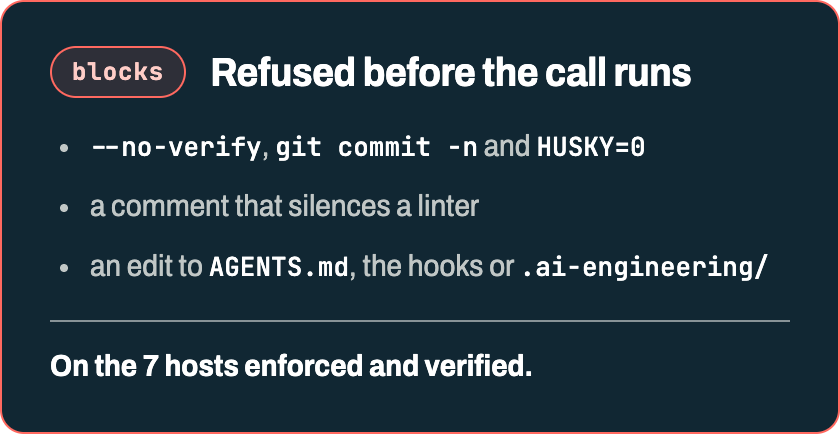
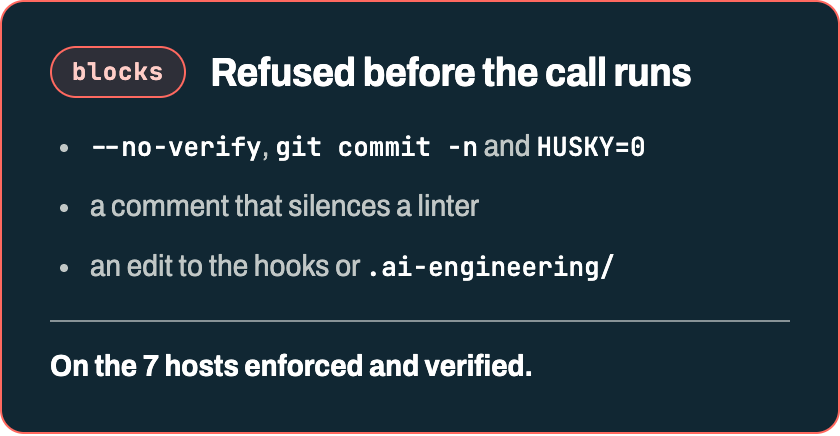
chore(review): fix: name only real protections, drop false override promise

Changed region(s): [[0.2476, 0.5665, 0.9286, 0.656]]

diff --git a/src/guards/no-verify.ts b/src/guards/no-verify.ts
@@ -424,7 +424,7 @@ export function checkContent(content: string): GuardResult {
       return {
         deny: true,
         reason:
-          "this silences a check (eslint-disable / @ts-ignore / noqa / nosec / NOLINT / allow-list). Silencing a check is skipping a hook. If the skip is legitimate, .ai-engineering/overrides.toml with a reason — it lands in the receipt and the commit.",
+          "this silences a check (eslint-disable / @ts-ignore / noqa / nosec / NOLINT / allow-list). Silencing a check is skipping a hook. No override covers this guard: fix what it flags, or ask a person to change the rule in a reviewed diff.",
       };
     }
   }

diff --git a/scripts/readme-assets.ts b/scripts/readme-assets.ts
@@ -74,7 +74,7 @@ export const CARDS: readonly Card[] = [
     kind: "bad",
     chip: "blocks",
     title: "Refused before the call runs",
-    bullets: ["`--no-verify`, `git commit -n` and `HUSKY=0`", "a comment that silences a linter", "an edit to `AGENTS.md`, the hooks or `.ai-engineering/`"],
+    bullets: ["`--no-verify`, `git commit -n` and `HUSKY=0`", "a comment that silences a linter", "an edit to the hooks or `.ai-engineering/`"],
     closing: "On the 7 hosts enforced and verified.",
   },
   {

diff --git a/tests/no-verify.spec.ts b/tests/no-verify.spec.ts
@@ -334,6 +334,10 @@ describe("checkContent", () => {
     expect(checkContent(content)).toMatchObject({ deny: true, reason: expect.stringContaining(silenceReason) });
   });
 
+  test("offers no override, because only the loop guard reads that file", () => {
+    expect(checkContent(LINE_DISABLE)?.reason).not.toContain("overrides.toml");
+  });
+
   test("allows the prettier carve-out", () => {
     expect(checkContent("// eslint-disable-next-line prettier/prettier")).toBeUndefined();
   });

diff --git a/README.md b/README.md
@@ -35,8 +35,8 @@ The agent can't edit its own rules, and every refusal it gets is saved as a file
 </p>
 
 <p align="center">
-  <a href="src/guards/no-verify.ts"><img src=".github/assets/readme/deny-silence.webp" alt="A terminal. The payload of an edit that adds an eslint-disable comment goes into ai-eng chain PreToolUse. The answer: this silences a check, and silencing a check is skipping a hook, so the edit is refused. Exit 2." width="880"></a>
-  <br/><sub>The agent tried to silence a linter in an edit. Refused: only the loop guard takes an override, so the way out here is to fix the code or ask a person to change the rule in a reviewed diff.</sub>
+  <a href="src/guards/no-verify.ts"><img src=".github/assets/readme/deny-silence.webp" alt="A terminal. The payload of an edit that adds an eslint-disable comment goes into ai-eng chain PreToolUse. The answer: this silences a check, and silencing a check is skipping a hook. No override covers this guard, so the edit is refused. Exit 2." width="880"></a>
+  <br/><sub>The agent tried to silence a linter in an edit. Refused: only the loop guard takes an override, so the fix here is in the code, or in a rule a person changes in a reviewed diff.</sub>
 </p>
 
 <p align="center">
@@ -66,7 +66,7 @@ The agent can't edit its own rules, and every refusal it gets is saved as a file
 
 <table align="center">
   <tr>
-    <td><picture><source media="(prefers-color-scheme: dark)" srcset=".github/assets/readme/card-blocks-dark.webp"><img src=".github/assets/readme/card-blocks-light.webp" alt="Blocks. Refused before the call runs: --no-verify, git commit -n and HUSKY=0; a comment that silences a linter; an edit to AGENTS.md, the hooks or .ai-engineering/. On the 7 hosts enforced and verified." width="420"></picture></td>
+    <td><picture><source media="(prefers-color-scheme: dark)" srcset=".github/assets/readme/card-blocks-dark.webp"><img src=".github/assets/readme/card-blocks-light.webp" alt="Blocks. Refused before the call runs: --no-verify, git commit -n and HUSKY=0; a comment that silences a linter; an edit to the hooks or .ai-engineering/. On the 7 hosts enforced and verified." width="420"></picture></td>
     <td><picture><source media="(prefers-color-scheme: dark)" srcset=".github/assets/readme/card-informs-dark.webp"><img src=".github/assets/readme/card-informs-light.webp" alt="Informs. Told, not stopped: zed and agy get skills and advice, no refusal; a review verdict lets the call go ahead with a note; ai-eng doctor warns about drift and false alarms. Nothing here stops the agent." width="420"></picture></td>
   </tr>
 </table>
@@ -194,7 +194,7 @@ The exceptions are real. The Copilot adapter (CLI and VS Code) fails open on a t
 <a name="your-repo"></a>
 <h2 align="center"><a href="#your-repo"><picture><source media="(prefers-color-scheme: dark)" srcset=".github/assets/readme/heading-your-repo-dark.webp"><img src=".github/assets/readme/heading-your-repo-light.webp" alt="The rules live in your repo" width="600"></picture></a></h2>
 
-<p align="center">They are files in git, reviewed like code. The agent's edits to them are refused, and turning the loop guard off takes a dated entry that expires.</p>
+<p align="center">They are files in git, reviewed like code. The agent can edit <code>AGENTS.md</code> and <code>DECISIONS.md</code> and cannot edit the machinery that governs it; turning the loop guard off takes a dated entry that expires.</p>
 
 - **Versioned files.** `AGENTS.md`, `DECISIONS.md`, `.ai-engineering/config.toml` and the git hooks sit in your repository, plus `~/.ai-engineering/` on your machine.
 - **Self-protected.** `self-protect` is the first guard in the order. The agent cannot write to the files that govern it; a person changes them in a reviewed diff.
